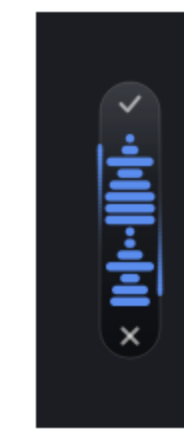
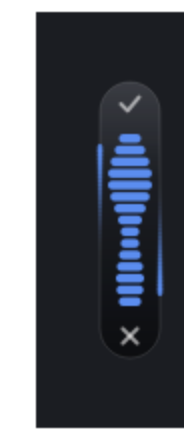
fix: the level meter read as a barcode once the bars were packed together
Each bar ran on its own non-harmonic oscillator, which is what made nine
well-spaced bars look alive. At fifteen bars on a 1.4px gap the row is
visually continuous and that independence reads as noise instead.

Measured rather than eyeballed: sign changes in the row's first difference,
i.e. how many crests it has. A waveform has a few, a barcode approaches
n-2. It measured 12 of a possible 12 -- every neighbouring pair disagreed
in direction, every frame.

The wrong fix is a shallower swing; the old comment was right that this
gives a shimmer. The right one is correlating the neighbours, because that
is what a waveform is. Two waves now travel ALONG the row with spatial
periods that don't divide evenly, so crests drift in and out of alignment
and the shape never repeats. Spring stagger cut from i*26 to i*8 -- the
waves carry the liveliness, and a wide stagger would decorrelate exactly
what they exist to correlate.

3 crests, down from 12. Pinned by three tests: crest count, neighbour-vs-
distant spread, and that the row still changes shape rather than settling
into a static arch.

Changed region(s): [[0.5707, 0.2955, 0.8424, 0.7091]]

diff --git a/murmur/ui/waveform.py b/murmur/ui/waveform.py
@@ -13,12 +13,24 @@ FLOOR = 0.08          # idle height, so the pill never looks dead
 _GAIN = 9.0           # mic RMS is small; scale it into 0..1
 _BREATHE_HZ = 0.4
 
-# Each bar gets its own oscillator frequency and phase. Sharing one frequency
-# (with only a phase offset) makes the row move in lockstep and read as a
-# barcode; mutually non-harmonic rates keep the bars visibly independent at
-# every instant, which is what makes it look like a voice.
-_FREQS = (7.3, 11.9, 9.1, 13.7, 8.3, 12.1, 10.7, 9.7, 12.9)
-_PHASES = (0.0, 2.1, 4.3, 1.2, 5.4, 3.3, 0.7, 2.8, 4.9)
+# Two travelling waves, not one oscillator per bar.
+#
+# The bars used to run on mutually non-harmonic per-bar frequencies, which read
+# as alive when there were nine of them spaced well apart. Packed to fifteen at
+# a 1.4px gap the row is visually continuous, and that same independence read as
+# a barcode: measured, every neighbouring pair disagreed in direction, twelve
+# sign changes out of a possible twelve.
+#
+# The fix is not a shallower swing — that gives a shimmer. It is correlating the
+# neighbours, which is what a waveform actually is. Each wave travels ALONG the
+# row (hence the `- i * k` term); their spatial periods don't divide evenly, so
+# the crests drift in and out of alignment and the shape never repeats.
+_WAVES = (
+    # speed (Hz), cycles across the row, share of the swing
+    (2.3, 1.6, 0.30),
+    (1.4, 0.7, 0.19),
+)
+_OSC_BIAS = 0.55
 
 
 class BarModel:
@@ -28,8 +40,11 @@ class BarModel:
         self.t = 0.0
         # Staggered constants: identical springs settle identically and look
         # mechanical. Spreading stiffness and damping makes the row feel alive.
+        # Staggered, but far less than when each bar was its own oscillator:
+        # the waves now carry the liveliness, and a wide stagger would just
+        # decorrelate the neighbours the waves exist to correlate.
         self.springs = [
-            Spring(value=FLOOR, stiffness=210.0 + i * 26.0, damping=14.0 + i * 1.3)
+            Spring(value=FLOOR, stiffness=210.0 + i * 8.0, damping=14.0 + i * 0.4)
             for i in range(n)
         ]
 
@@ -42,15 +57,14 @@ class BarModel:
         self.t += dt
         norm = max(0.0, min(1.0, level * self.gain))
         mid = (self.n - 1) / 2 if self.n > 1 else 1.0
+        span = self.n or 1
         for i, s in enumerate(self.springs):
-            freq = _FREQS[i % len(_FREQS)]
-            phase = _PHASES[i % len(_PHASES)]
             # Centre bars run taller, as on a real level meter.
             centre = 1.0 - 0.34 * (abs(i - mid) / mid if mid else 0.0)
-            # Deep modulation: neighbouring bars differ by roughly 4x at any
-            # given frame. A shallower swing reads as a shimmer rather than as
-            # something responding to a voice.
-            osc = 0.58 + 0.62 * math.sin(self.t * freq + phase)
+            osc = _OSC_BIAS
+            for speed, cycles, share in _WAVES:
+                k = 2 * math.pi * cycles / span
+                osc += share * math.sin(self.t * speed * 2 * math.pi - i * k)
             s.target = max(FLOOR, min(1.0, norm * centre * osc))
             s.step(dt)
             s.value = max(0.0, min(1.0, s.value))

diff --git a/tests/test_waveform.py b/tests/test_waveform.py
@@ -61,3 +61,47 @@ def test_zero_dt_does_not_move_the_bars():
     for _ in range(10):
         m.step(level=0.9, dt=0.0)
     assert m.heights() == before
+
+
+def _worst_flips(m, level=0.5, frames=400, dt=1 / 60):
+    """Sign changes in the row's first difference — i.e. how many crests it has.
+
+    A barcode alternates up/down bar to bar and approaches n-2. A waveform has
+    a few crests travelling along it.
+    """
+    worst = 0
+    for _ in range(frames):
+        m.step(level=level, dt=dt)
+        h = m.heights()
+        d = [h[i + 1] - h[i] for i in range(len(h) - 1)]
+        worst = max(worst, sum(1 for i in range(len(d) - 1) if d[i] * d[i + 1] < 0))
+    return worst
+
+
+def test_the_row_forms_a_few_crests_rather_than_alternating_bar_to_bar():
+    """The bars used to run on mutually non-harmonic per-bar oscillators, which
+    read as alive when there were 9 of them spaced well apart. Packed to 15 bars
+    at a 1.4px gap the row is visually continuous, and the same independence
+    reads as a barcode. A voice has correlated neighbours."""
+    assert _worst_flips(BarModel(n=15)) <= 5
+
+
+def test_neighbouring_bars_stay_closer_than_distant_ones():
+    m = BarModel(n=15)
+    near, far = [], []
+    for _ in range(400):
+        m.step(level=0.5, dt=1 / 60)
+        h = m.heights()
+        near += [abs(h[i] - h[i + 1]) for i in range(len(h) - 1)]
+        far += [abs(h[i] - h[i + 6]) for i in range(len(h) - 6)]
+    assert sum(near) / len(near) < sum(far) / len(far)
+
+
+def test_the_row_still_moves_rather_than_holding_one_shape():
+    """Correlating neighbours must not flatten it into a static arch."""
+    m = BarModel(n=15)
+    shapes = set()
+    for _ in range(200):
+        m.step(level=0.5, dt=1 / 60)
+        shapes.add(tuple(round(x, 2) for x in m.heights()))
+    assert len(shapes) > 100

diff --git a/LOG.md b/LOG.md
@@ -495,3 +495,29 @@ instead. Recorded here so the next session does not re-run that query expecting
 something else.
 
 313 tests, 17/17 checks.
+
+### Follow-up the same day — the meter was a barcode, and it was measurable
+
+Packing the bars closer exposed a problem that wide spacing had hidden. Each bar
+ran on its own non-harmonic oscillator, which is what made nine well-spaced bars
+look alive. At fifteen bars on a 1.4px gap the row is visually continuous, and
+independence stops reading as liveliness and starts reading as noise.
+
+Quantified rather than eyeballed: count sign changes in the row's first
+difference, i.e. how many crests it has. A waveform has a few; a barcode
+approaches n-2. It measured **12 of a possible 12** — every neighbouring pair
+disagreed in direction, every frame.
+
+The wrong fix is a shallower swing; the old comment in `waveform.py` was right
+that this gives a shimmer. The right one is correlating the neighbours, because
+that is what a waveform is. Replaced the per-bar oscillators with two waves
+travelling *along* the row, spatial periods that don't divide evenly so the
+crests drift in and out of alignment and the shape never repeats. Spring stagger
+cut from `i*26` to `i*8` — the waves carry the liveliness now, and a wide stagger
+would decorrelate exactly what the waves exist to correlate.
+
+**3 crests, down from 12.** Pinned by three tests: crest count, neighbour-vs-
+distant spread, and a check that the row still changes shape rather than settling
+into a static arch.
+
+316 tests.
